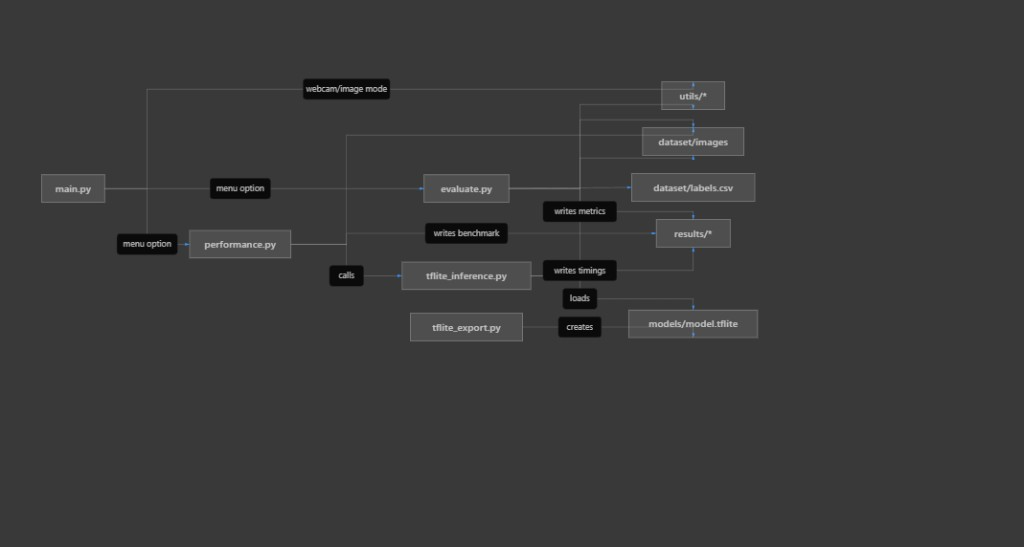
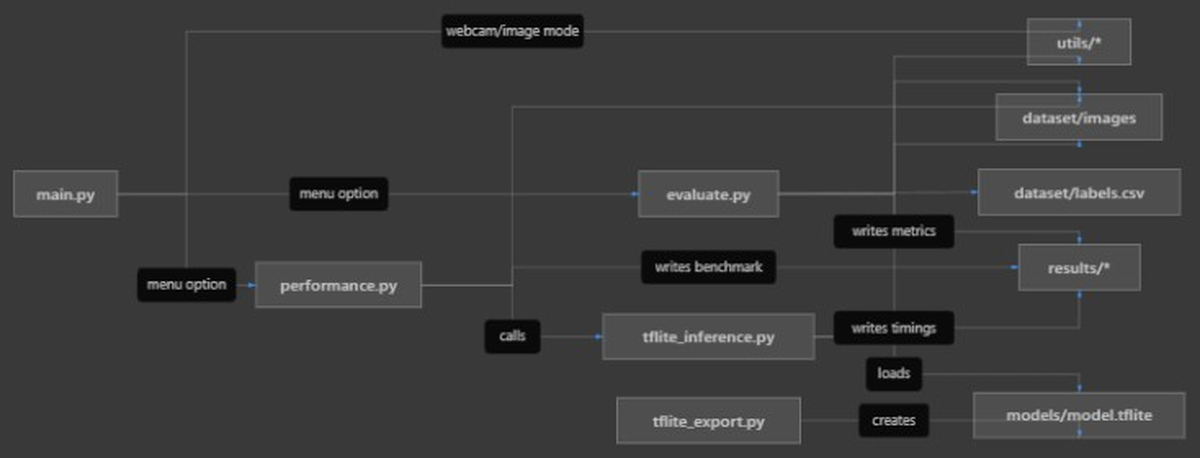
refine architecture preview image layout
Made-with: Cursor

diff --git a/README.md b/README.md
@@ -15,6 +15,12 @@ Inference runs on the local machine (edge scenario) with no cloud API dependency
 
 [![Architecture preview](docs/architecture_preview.png)](docs/architecture_preview.png)
 
+Diagram scope:
+
+- `evaluate.py` uses `dataset/labels.csv` as ground truth for metrics
+- `performance.py` includes the TFLite timing path via `tflite_inference.py`
+- if `models/model.tflite` is missing, the flow can generate it via `tflite_export.py`
+
 PlantUML source for the same high-level structure is available in `docs/architecture.puml`.
 
 The repository includes:
